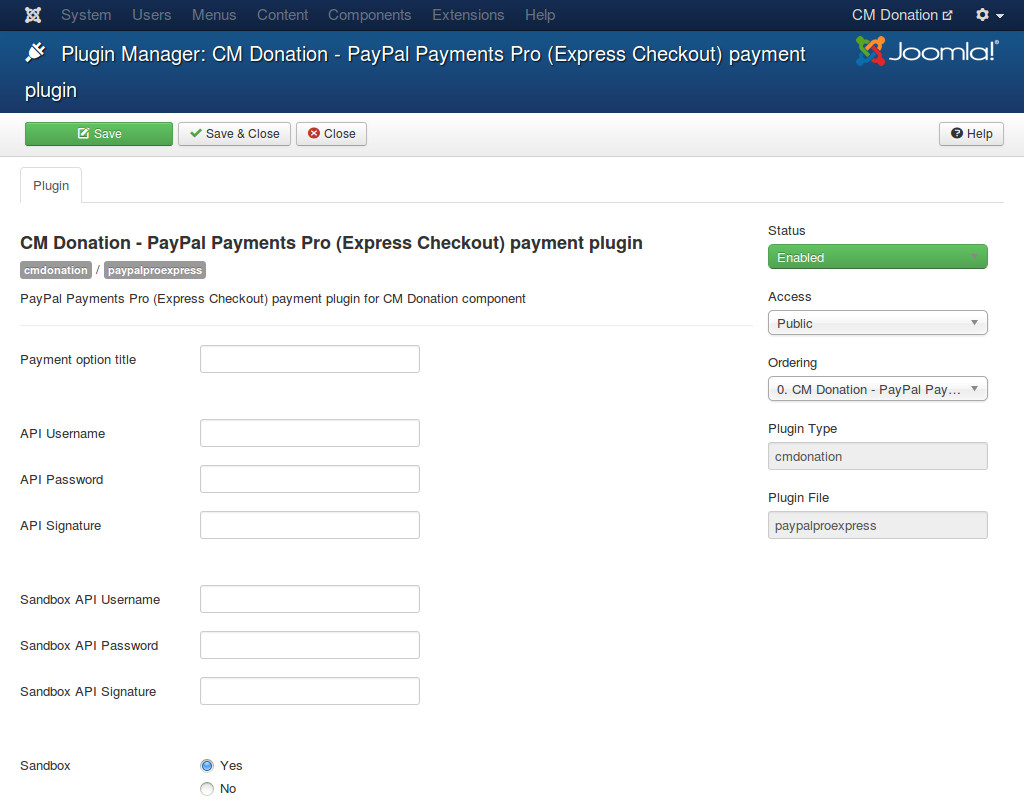
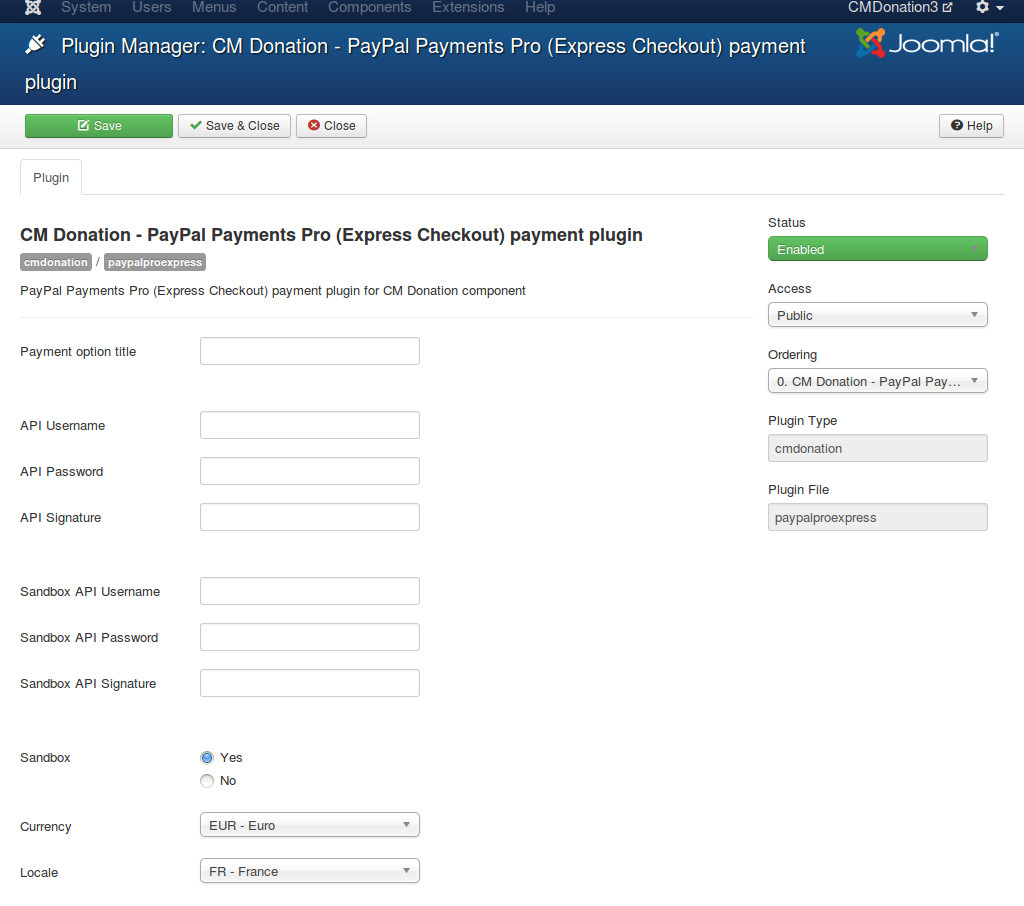
Update for 1.0.2 release

diff --git a/pages/configuration.rst b/pages/configuration.rst
@@ -146,6 +146,10 @@ If you want to use PayPal Sandbox for testing, you switch "Sandbox" option to "Y
 
 If you want to accept real transactions, you set "Sandbox" to "No" and enter your PayPal's info into "API Username", "API Password", "API Signature" fields.
 
+You need to select the currency that is used in your donations in "Currency" option. You only can select the currency that PayPal's supported. Please note that your PayPal account must also support the selected currency.
+
+With "Locale" option, you can select the language of PayPal's transaction page. If your site is a multilanguage site, you can use the Joomla!'s' locale that donor uses. For example, if your site is in English and French, donor views your site in French and decides to donate, French is the locale of PayPal's donation page after donor is taken to PayPal. If your site is only in 1 language, you should choose another option in the list.
+
 Please remember to enable the plugin.
 
 Create menu item
